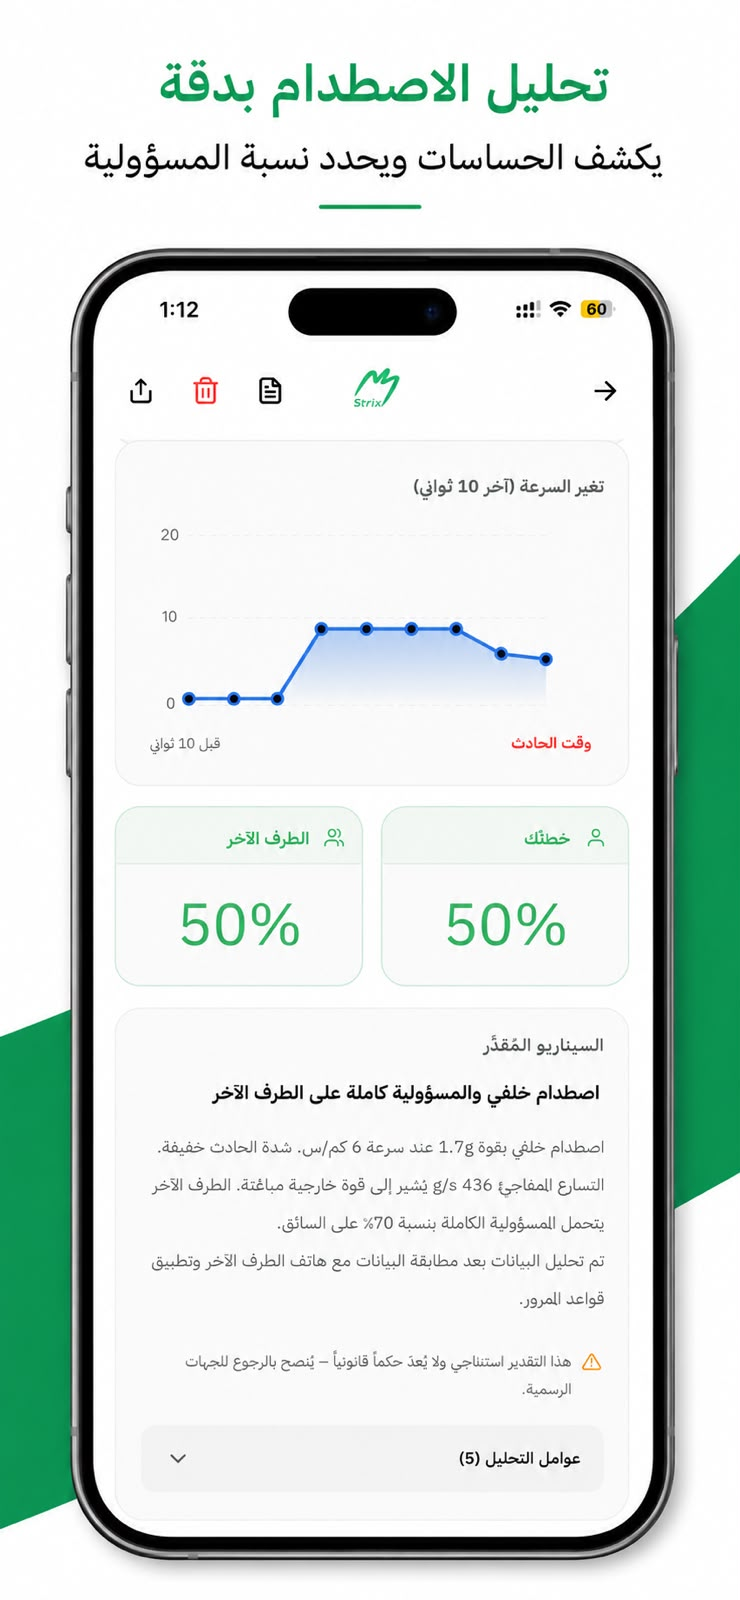
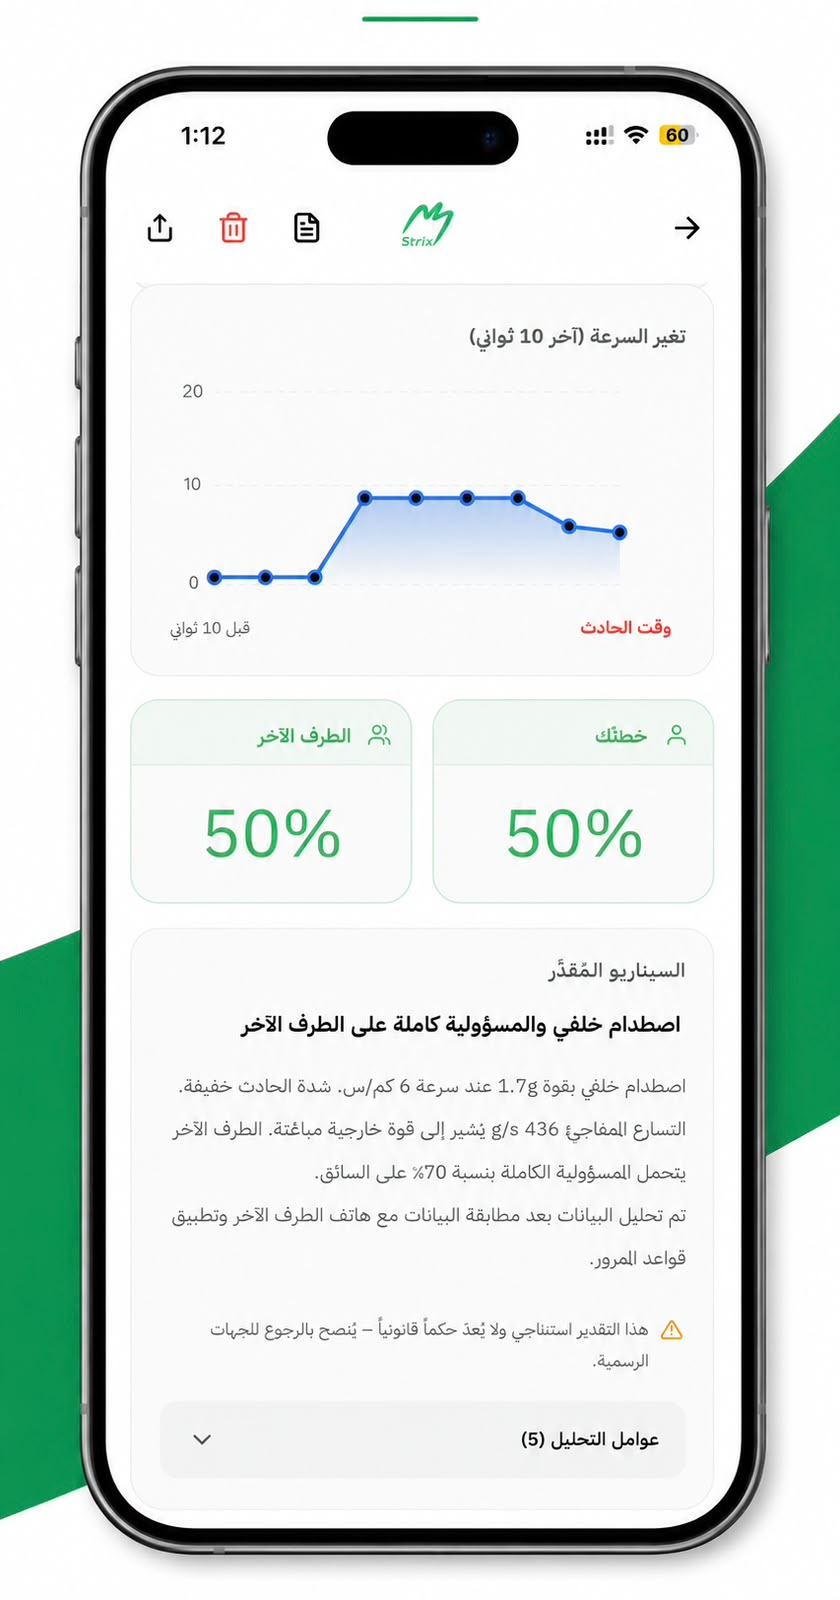
feat(landing): colloquial copy + image-matched showcase captions and updated screenshots

diff --git a/strix-test/Strix-Assets-main/artifacts/landing-page/src/components/Features.tsx b/strix-test/Strix-Assets-main/artifacts/landing-page/src/components/Features.tsx
@@ -4,33 +4,33 @@ import { ShieldCheck, Activity, MapPin, Scale, FileText, Cloud } from 'lucide-re
 const features = [
   {
     icon: <ShieldCheck size={26} />,
-    title: 'كشف الحوادث تلقائياً',
-    desc: 'تحليل فوري لمستشعرات التسارع والجيروسكوب يكشف الاصطدام بدقة تصل إلى 99% في أقل من ثانية.',
+    title: 'يكشف الحادث لحاله',
+    desc: 'يقرأ حسّاسات التسارع والجيروسكوب لحظة بلحظة ويمسك التصادم بدقة توصل 99% في أقل من ثانية.',
   },
   {
     icon: <Activity size={26} />,
-    title: 'تحليل قوة الاصطدام',
-    desc: 'قياس دقيق لقوة الاصطدام بوحدة G وتصنيف الحادث من طفيف إلى حرج.',
+    title: 'يقيس قوة الصدمة',
+    desc: 'يحسب قوة الاصطدام بوحدة G ويصنّف الحادث من بسيط إلى حرج بدقة.',
   },
   {
     icon: <MapPin size={26} />,
-    title: 'رسم اتجاه الاصطدام',
-    desc: 'تحديد نقطة الاصطدام عبر 16 منطقة في المركبة مع كروكي آلي احترافي.',
+    title: 'يحدّد اتجاه الضربة',
+    desc: 'يعرف نقطة الاصطدام بالضبط عبر 16 منطقة بالسيارة، ويرسم لك كروكي جاهز.',
   },
   {
     icon: <Scale size={26} />,
-    title: 'تقدير نسبة المسؤولية',
-    desc: 'محرك ذكي يحلل المعطيات ويقدّر نسبة مسؤولية كل طرف بدقة تتراوح بين 85% و90%.',
+    title: 'يقدّر نسبة المسؤولية',
+    desc: 'محرك ذكي يقرأ المعطيات ويعطيك نسبة مسؤولية كل طرف بدقة بين 85% و90%.',
   },
   {
     icon: <FileText size={26} />,
-    title: 'تقارير احترافية',
-    desc: 'تقرير فني شامل قابل للمشاركة مع الجهات المختصة.',
+    title: 'تقرير يفهمه الكل',
+    desc: 'تقرير فني كامل تشاركه مع الجهات المختصة بضغطة وحدة.',
   },
   {
     icon: <Cloud size={26} />,
-    title: 'مزامنة سحابية آمنة',
-    desc: 'حفظ جميع التقارير والبيانات على السحابة مع إمكانية الاسترجاع في أي وقت.',
+    title: 'محفوظ بالسحابة',
+    desc: 'كل تقاريرك وبياناتك محفوظة بأمان بالسحابة، وترجع لها متى ما تبي.',
   },
 ];
 
@@ -39,9 +39,9 @@ export default function Features() {
     <section className="features-section" id="features">
       <div className="section-header">
         <span className="section-eyebrow reveal">الميزات</span>
-        <h2 className="section-title reveal reveal-delay-1">تقنيات متقدمة لتوثيق<br />لا يقبل الشك</h2>
+        <h2 className="section-title reveal reveal-delay-1">توثيق ما يترك<br />مجال للشك</h2>
         <p className="section-sub reveal reveal-delay-2">
-          بُني ستركس باستخدام خوارزميات Kalman لتصفية الإشارة، وتحليل تردد الاهتزاز، ونموذج ذكاء اصطناعي لتصنيف الحوادث بدقة عالية.
+          ورا ستركس تقنيات قوية: فلترة إشارة بخوارزميات Kalman، وتحليل لتردد الاهتزاز، ونموذج ذكاء اصطناعي يصنّف الحوادث بدقة عالية.
         </p>
       </div>
 

diff --git a/strix-test/Strix-Assets-main/artifacts/landing-page/src/components/HowItWorks.tsx b/strix-test/Strix-Assets-main/artifacts/landing-page/src/components/HowItWorks.tsx
@@ -5,20 +5,20 @@ const steps = [
   {
     number: '01',
     icon: <Smartphone size={32} />,
-    title: 'شغّل تطبيق ستركس',
-    desc: 'ابدأ جلسة المراقبة قبل القيادة. ستركس يرافقك بكل كفاءة لضمان سلامتك على الطريق.',
+    title: 'شغّل ستركس',
+    desc: 'قبل ما تسوق، ابدأ جلسة المراقبة، وخلّ ستركس يرافقك ويطمّنك طول الطريق.',
   },
   {
     number: '02',
     icon: <Zap size={32} />,
-    title: 'كشف فوري للحادث',
-    desc: 'لحظة وقوع الاصطدام، يكتشف ستركس الحادث خلال أجزاء من الثانية ويبدأ التحليل فوراً.',
+    title: 'يمسك الحادث لحظته',
+    desc: 'أول ما يصير التصادم، ستركس يكتشفه في أجزاء من الثانية ويبدأ التحليل على طول.',
   },
   {
     number: '03',
     icon: <FileCheck size={32} />,
-    title: 'احصل على تقريرك',
-    desc: 'تقرير فني شامل بالسرعة، واتجاه الاصطدام، وقوة التأثير، وكروكي توضيحي جاهز للتقديم.',
+    title: 'خذ تقريرك',
+    desc: 'تقرير كامل بالسرعة واتجاه الصدمة وقوتها، مع كروكي توضيحي جاهز تقدّمه.',
   },
 ];
 
@@ -26,10 +26,10 @@ export default function HowItWorks() {
   return (
     <section className="how-section" id="how-it-works">
       <div className="section-header">
-        <span className="section-eyebrow reveal">كيف يعمل</span>
-        <h2 className="section-title reveal reveal-delay-1">ثلاث خطوات فقط</h2>
+        <span className="section-eyebrow reveal">كيف يشتغل</span>
+        <h2 className="section-title reveal reveal-delay-1">ثلاث خطوات وبس</h2>
         <p className="section-sub reveal reveal-delay-2">
-          خطوات واضحة وبسيطة لضمان حقوقك وتوثيق الحادث بدقة.
+          خطوات بسيطة وواضحة تضمن حقّك وتوثّق الحادث بدقة.
         </p>
       </div>
 

diff --git a/strix-test/Strix-Assets-main/artifacts/landing-page/src/components/Showcase.tsx b/strix-test/Strix-Assets-main/artifacts/landing-page/src/components/Showcase.tsx
@@ -6,18 +6,18 @@ import shot3 from '../assets/screenshots/app-3.jpeg';
 const shots = [
   {
     src: shot1,
-    title: 'رصد لحظي للحادث',
-    desc: 'ستركس يلتقط الاصطدام في أجزاء من الثانية ويبدأ التوثيق فوراً.',
+    title: 'سجل حوادثك محفوظ',
+    desc: 'كل حادث تعرّضت له موثّق ومحفوظ عندك في مكان واحد، ترجع له وقت ما تحتاجه بضغطة.',
   },
   {
     src: shot2,
-    title: 'تحليل بصري دقيق',
-    desc: 'قوة الاصطدام واتجاهه وسرعة المركبة، معروضة بوضوح لحظة بلحظة.',
+    title: 'كروكي دقيق للحادث',
+    desc: 'كروكي يبيّن مكان الصدمة وقوّتها، مع إحداثيات الموقع بالضبط لحظة الحادث.',
   },
   {
     src: shot3,
-    title: 'تقرير جاهز للتقديم',
-    desc: 'كروكي احترافي وتقدير لنسبة المسؤولية في تقرير واحد قابل للمشاركة.',
+    title: 'تحليل يوصلك للحقيقة',
+    desc: 'مؤشر يبيّن تغيّر سرعتك في آخر 10 ثواني، مع نسبة المسؤولية والسيناريو المتوقّع للحادث.',
   },
 ];
 
@@ -25,10 +25,10 @@ export default function Showcase() {
   return (
     <section className="showcase-section" id="showcase">
       <div className="section-header">
-        <span className="section-eyebrow reveal">من داخل التطبيق</span>
-        <h2 className="section-title reveal reveal-delay-1">شاهد ستركس وهو يعمل</h2>
+        <span className="section-eyebrow reveal">من جوّا التطبيق</span>
+        <h2 className="section-title reveal reveal-delay-1">شوف ستركس وهو يشتغل</h2>
         <p className="section-sub reveal reveal-delay-2">
-          تجربة صُممت لتكون واضحة في أصعب اللحظات — كل شاشة تخبرك بما تحتاج معرفته، دون تعقيد.
+          صمّمناه يكون واضح في أصعب اللحظات — كل شاشة تعطيك اللي تحتاجه بدون لف ودوران.
         </p>
       </div>
 

diff --git a/strix-test/Strix-Assets-main/artifacts/landing-page/src/components/Hero.tsx b/strix-test/Strix-Assets-main/artifacts/landing-page/src/components/Hero.tsx
@@ -18,7 +18,7 @@ export default function Hero({ icon }: HeroProps) {
           </h1>
 
           <p className="hero-subtitle reveal reveal-delay-1">
-            ستركس يحوّل هاتفك إلى شاهدٍ ذكي لا ينام: يرصد الحادث لحظة وقوعه بدقة تصل إلى <strong>99%</strong>، ويحلّل المشهد ليمنحك تقديراً لنسبة المسؤولية بدقة تتراوح بين <strong>85% و90%</strong> — كل ذلك قبل أن تلتقط أنفاسك.
+            ستركس يحوّل جوالك إلى شاهد ذكي ما ينام: يمسك الحادث لحظة ما يصير بدقة توصل <strong>99%</strong>، ويحلّل الموقف ويعطيك نسبة المسؤولية بدقة بين <strong>85% و90%</strong> — كل هذا قبل لا تلتقط نفسك.
           </p>
 
           <div className="hero-actions reveal reveal-delay-2">